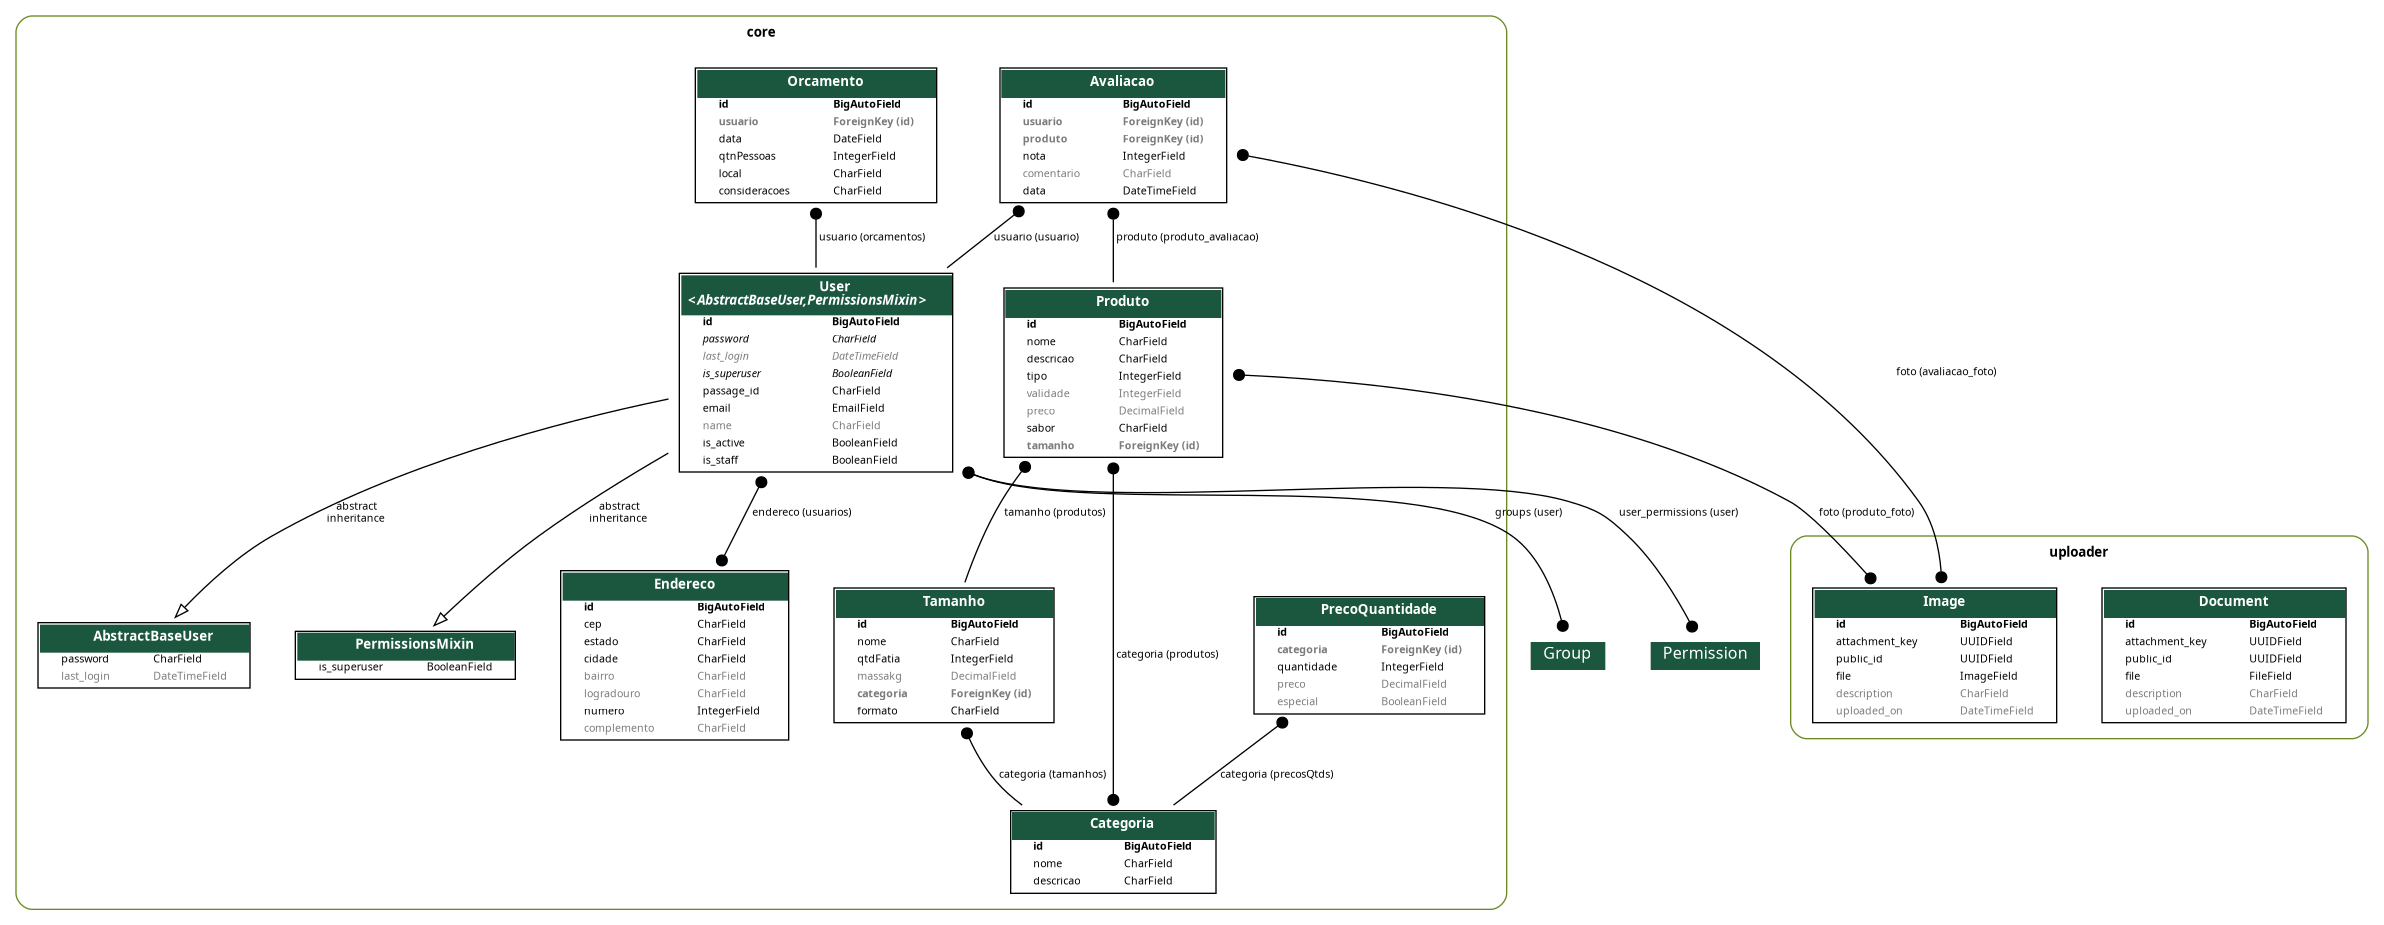
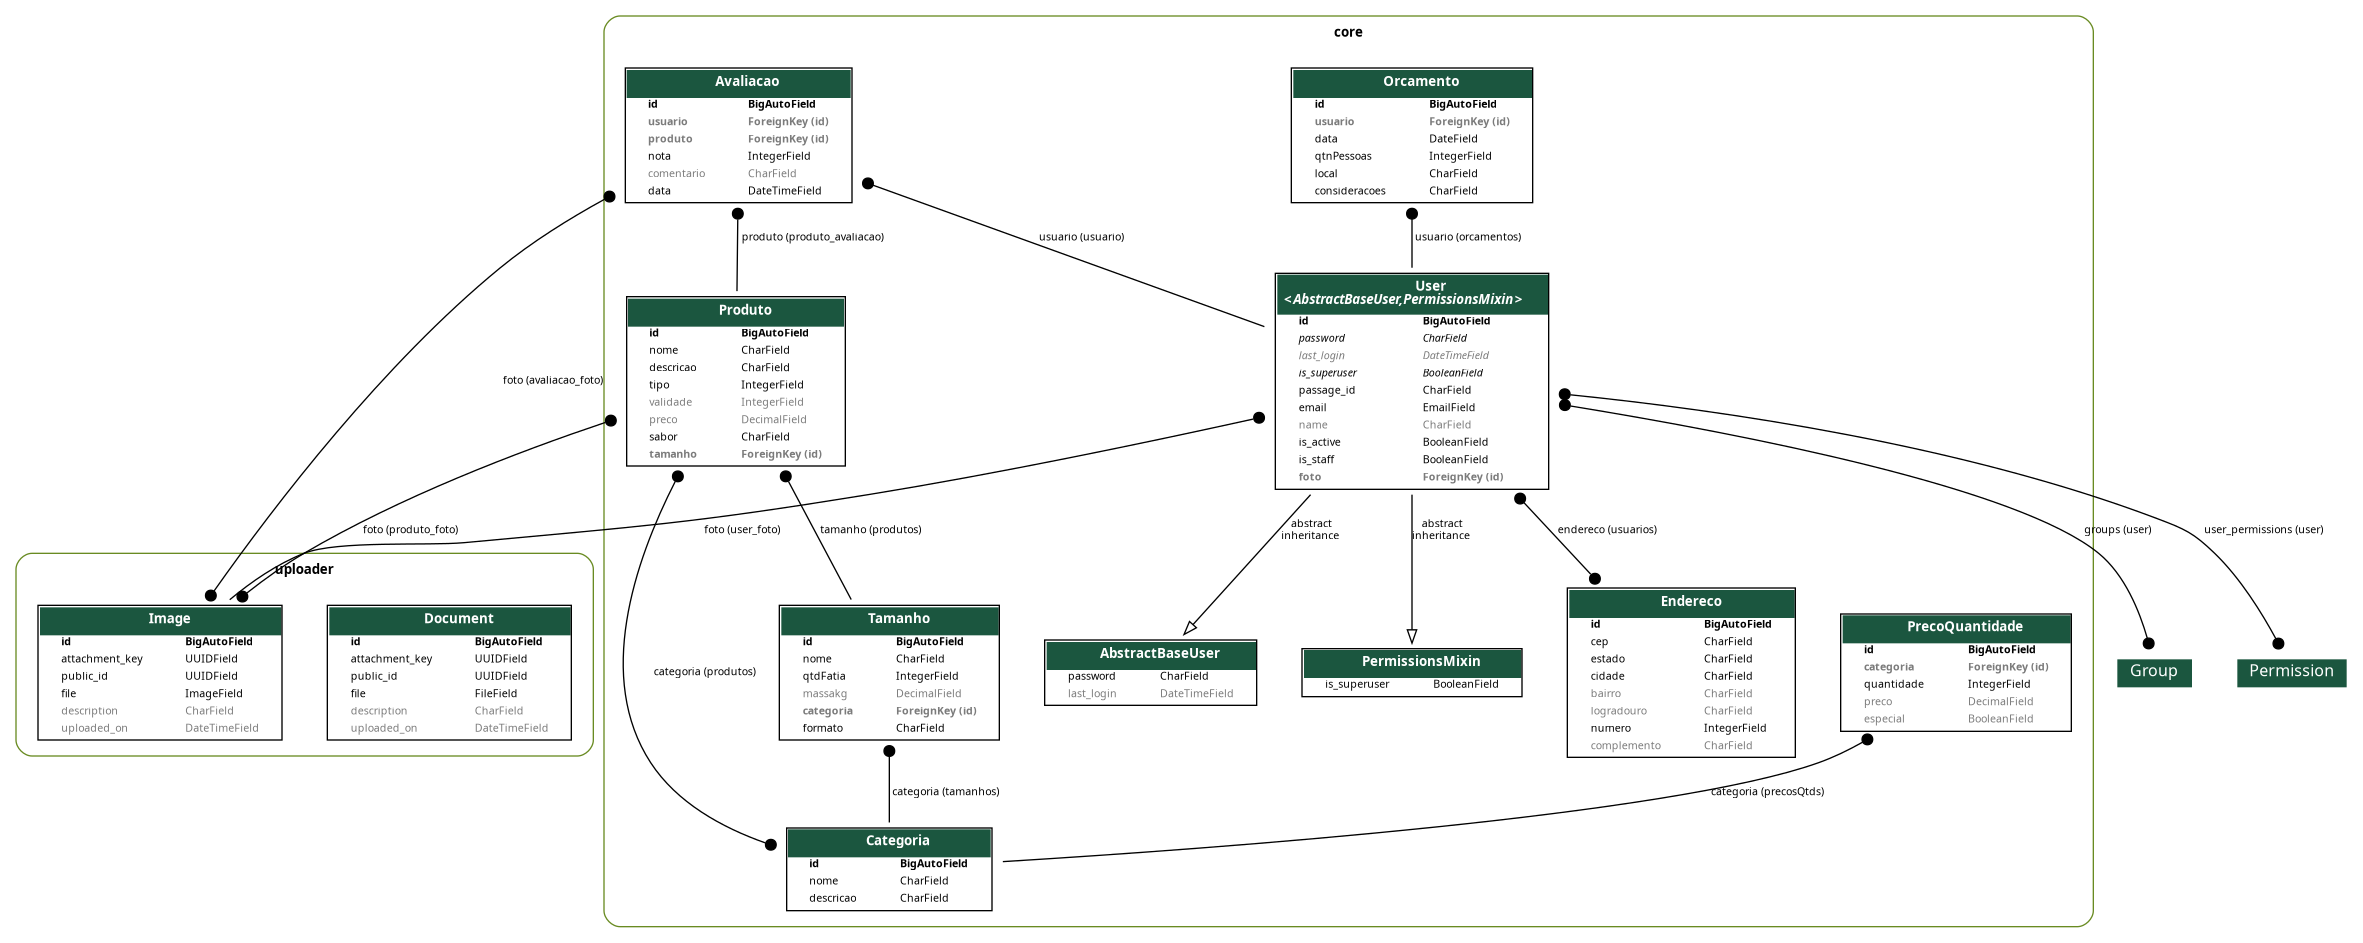
Feat: Inclusão da foto no usuario #26

diff --git a/core/migrations/0023_alter_avaliacao_options_user_foto.py b/core/migrations/0023_alter_avaliacao_options_user_foto.py
@@ -1,0 +1,24 @@
+# Generated by Django 5.2.3 on 2025-07-03 02:40
+
+import django.db.models.deletion
+from django.db import migrations, models
+
+
+class Migration(migrations.Migration):
+
+    dependencies = [
+        ('core', '0022_alter_endereco_options_avaliacao'),
+        ('uploader', '0001_initial'),
+    ]
+
+    operations = [
+        migrations.AlterModelOptions(
+            name='avaliacao',
+            options={'verbose_name': 'Avaliação', 'verbose_name_plural': 'Avaliações'},
+        ),
+        migrations.AddField(
+            model_name='user',
+            name='foto',
+            field=models.ForeignKey(blank=True, default=None, null=True, on_delete=django.db.models.deletion.SET_NULL, related_name='user_foto', to='uploader.image'),
+        ),
+    ]

diff --git a/core/serializers/user.py b/core/serializers/user.py
@@ -1,10 +1,23 @@
-from rest_framework.serializers import ModelSerializer
+from rest_framework.serializers import ModelSerializer, SlugRelatedField
 
 from core.models import User
+from uploader.models import Image
+from uploader.serializers import ImageSerializer
 
 
 class UserSerializer(ModelSerializer):
+    foto_attachment_key = SlugRelatedField(
+        source='foto',
+        queryset=Image.objects.all(),
+        slug_field='attachment_key',
+        required=False,
+        write_only=True,
+    )
+    foto = ImageSerializer(
+        required=False,
+        read_only=True
+    )
+
     class Meta:
         model = User
         fields = '__all__'
-        depth = 1

diff --git a/core/models/user.py b/core/models/user.py
@@ -9,7 +9,7 @@ from django.contrib.auth.models import (
 )
 from django.db import models
 from django.utils.translation import gettext_lazy as _
-
+from uploader.models import Image
 from core.models.endereco import Endereco
 
 
@@ -53,6 +53,14 @@ class User(AbstractBaseUser, PermissionsMixin):
         default=False,
         verbose_name=_('Usuário é da equipe'),
         help_text=_('Indica que este usuário pode acessar o Admin.'),
+    )
+    foto = models.ForeignKey(
+        Image,
+        related_name='user_foto',
+        on_delete=models.SET_NULL,
+        null=True,
+        blank=True,
+        default=None,
     )
 
     objects = UserManager()

diff --git a/core/admin.py b/core/admin.py
@@ -16,7 +16,7 @@ class UserAdmin(BaseUserAdmin):
     list_display = ['email', 'name']
     fieldsets = (
         (None, {'fields': ('email', 'password')}),
-        (_('Personal Info'), {'fields': ('name', 'passage_id', 'endereco')}),
+        (_('Personal Info'), {'fields': ('name', 'passage_id', 'endereco', 'foto')}),
         (
             _('Permissions'),
             {
